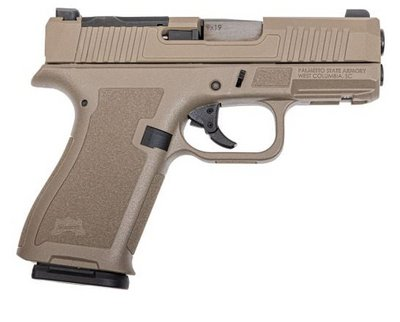
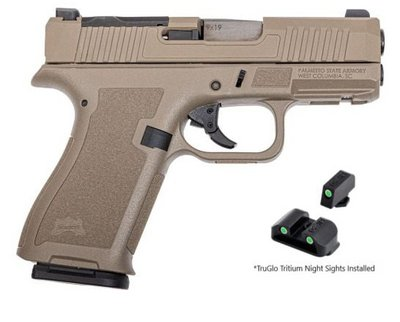
Update scraped product data

Changed region(s): [[0.63, 0.528, 0.93, 0.8696]]

diff --git a/client/daggers-data.ts b/client/daggers-data.ts
@@ -95,6 +95,52 @@ const data: DaggersData = {
 			"mag_size": 15
 		},
 		{
+			"psa_product_name": "PSA Dagger Micro 9mm Pistol - Shield Cut With Night Sights, Black",
+			"psa_url": "https://palmettostatearmory.com/psa-dagger-9mm-pistol-shield-cut-with-night-sights-black.html",
+			"price": 359.99,
+			"original_product_image_url": "https://palmettostatearmory.com/media/catalog/product/cache/7af8331bf1196ca28793bd1e8f6ecc7b/u/n/untitled_3.jpg",
+			"image_file_name": "psa-dagger-9mm-pistol-shield-cut-with-night-sights-black.jpg",
+			"size": "micro",
+			"width": 1.1,
+			"length": 6.5,
+			"height": 4.7,
+			"barrel_length": 3.41,
+			"longer_barrel": false,
+			"threaded_barrel": false,
+			"night_sight": true,
+			"compensated_slide": false,
+			"slide_color": "black",
+			"slide_coating": "cerakote",
+			"frame_color": null,
+			"optic_compatibility": "shield_rmsc",
+			"mag_bag_bonus": false,
+			"number_of_included_mags": 1,
+			"mag_size": 15
+		},
+		{
+			"psa_product_name": "PSA Dagger Compact 9mm Pistol Extreme Carry Cut Slide with Night Sights & Non-Threaded Barrel, Sniper Green",
+			"psa_url": "https://palmettostatearmory.com/psa-dagger-compact-9mm-pistol-extreme-carry-cut-slide-with-night-sights-non-threaded-barrel-sniper-green-2.html",
+			"price": 299.99,
+			"original_product_image_url": "https://palmettostatearmory.com/media/catalog/product/cache/7af8331bf1196ca28793bd1e8f6ecc7b/5/1/51655129779_1.jpg",
+			"image_file_name": "psa-dagger-compact-9mm-pistol-extreme-carry-cut-slide-with-night-sights-non-threaded-barrel-sniper-green-2.jpg",
+			"size": "compact",
+			"width": 1.28,
+			"length": 7.15,
+			"height": 4.78,
+			"barrel_length": 3.9,
+			"longer_barrel": false,
+			"threaded_barrel": false,
+			"night_sight": true,
+			"compensated_slide": false,
+			"slide_color": "sniper_green",
+			"slide_coating": "none",
+			"frame_color": "sniper_green",
+			"optic_compatibility": "none",
+			"mag_bag_bonus": false,
+			"number_of_included_mags": 1,
+			"mag_size": 15
+		},
+		{
 			"psa_product_name": "PSA Dagger Compact 9mm Pistol With C-1 RMR Compensated Slide, Black",
 			"psa_url": "https://palmettostatearmory.com/psa-dagger-compact-9mm-pistol-with-c-1-rmr-compensated-slide-black.html",
 			"price": 339.99,
@@ -1202,7 +1248,7 @@ const data: DaggersData = {
 			"psa_product_name": "PSA Dagger Micro 9mm Pistol - Shield Cut With Night Sights, Flat Dark Earth",
 			"psa_url": "https://palmettostatearmory.com/psa-dagger-micro-9mm-pistol-shield-cut-with-night-sights-flat-dark-earth.html",
 			"price": 359.99,
-			"original_product_image_url": "https://palmettostatearmory.com/media/catalog/product/cache/7af8331bf1196ca28793bd1e8f6ecc7b/d/m/dm01-51655188413_42525_1.jpg",
+			"original_product_image_url": "https://palmettostatearmory.com/media/catalog/product/cache/7af8331bf1196ca28793bd1e8f6ecc7b/m/i/micro_night_sights2.jpg",
 			"image_file_name": "psa-dagger-micro-9mm-pistol-shield-cut-with-night-sights-flat-dark-earth.jpg",
 			"size": "micro",
 			"width": 1.1,
@@ -1781,8 +1827,8 @@ const data: DaggersData = {
 	},
 	"frame_colors": {
 		"black": "Black",
-		"flat_dark_earth": "Flat Dark Earth",
 		"sniper_green": "Sniper Green",
+		"flat_dark_earth": "Flat Dark Earth",
 		"m81_woodland_camo": "M81 Woodland Camo",
 		"m81_desert_camo": "M81 Desert Camo",
 		"m81_desert": "M81 Desert",
